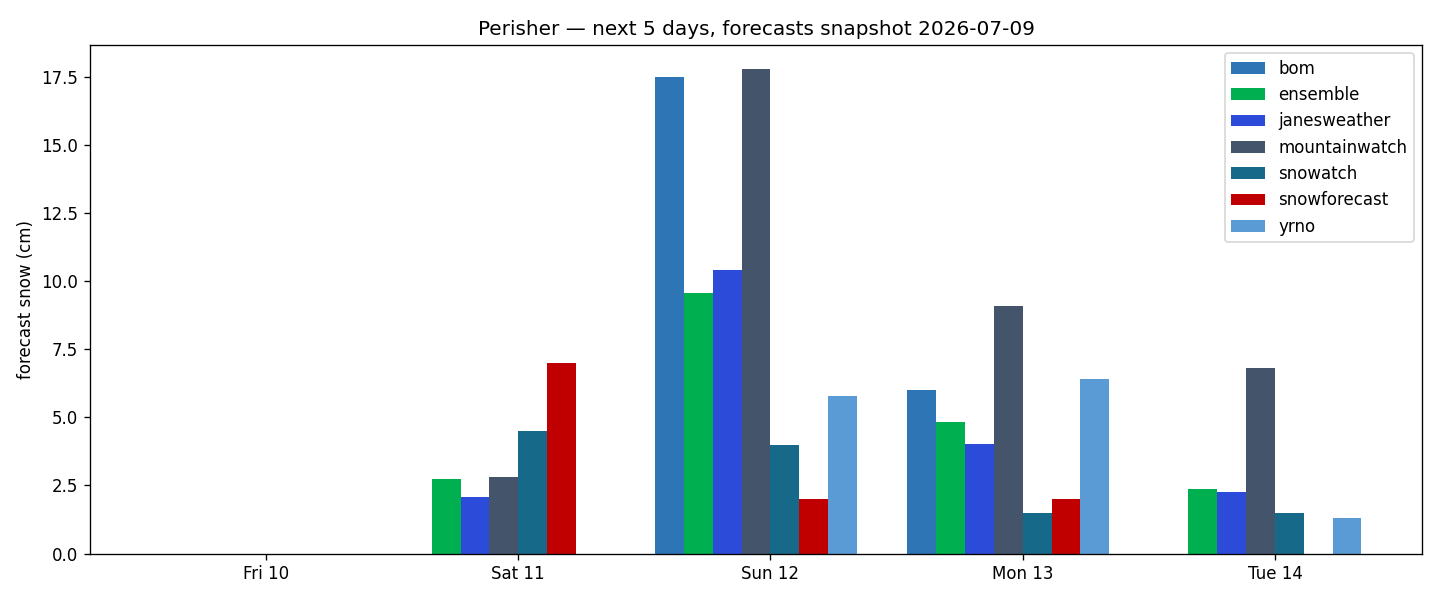
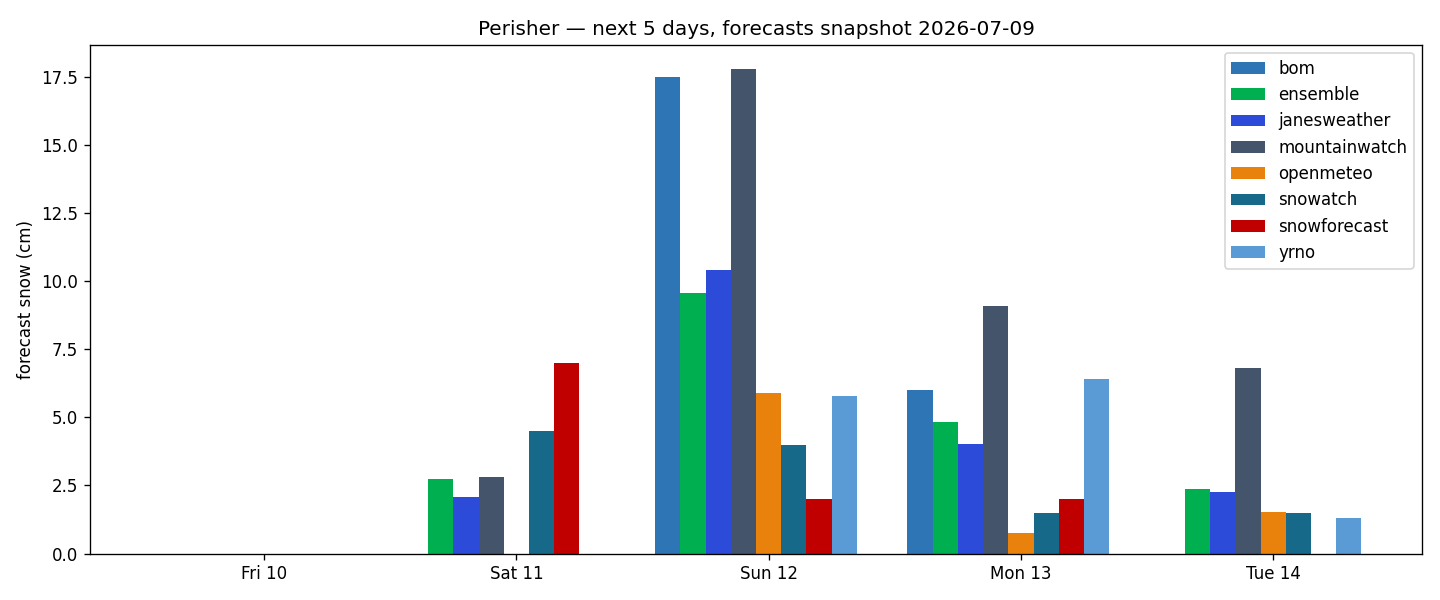
Switch ground truth to Perisher's own official 24h-to-7am report
Perisher's snow-report page is server-rendered with '24 Hrs' / '7 Days' /
'Natural Depth' figures and an 'Updated: <d> 7am' stamp — accurate and
unlagged (confirmed by James). collectors/actuals_perisher.py parses it;
run_morning uses it as primary ground truth, OnTheSnow demoted to fallback.

OnTheSnow's recent[] was demonstrably unreliable: it reported 57cm over the
week vs Perisher's official 37cm/7-day total, mis-attributing storm totals to
single days. That, not any reporting lag, explains the earlier Open-Meteo 0%.
Purged the OnTheSnow-sourced actuals; scoring stays exact-day.

Dashboard now shows official natural-depth and 7-day-new-snow badges (from
data/resort_status.json) instead of a summed season total.

Caveat: Perisher publishes no per-day history, so daily actuals can't be
backfilled before tracking began — the live record starts here.

diff --git a/site/index.html b/site/index.html
@@ -177,11 +177,12 @@ button:focus-visible, input:focus-visible, .swatch:focus-visible {
   <code>data/manual.json</code> and the morning run merges it (feed data always
   wins on conflicts).</footer>
 </div>
-<footer>Ground truth: Perisher resort report via OnTheSnow per-date history.
-Snapshots nightly ~6pm AEST; scoring against 24h snowfall to 7am.</footer>
+<footer>Ground truth: Perisher's official 24h-to-7am snow report (accurate,
+unlagged). Forecasts snapshotted nightly ~6pm AEST; scored the next morning
+against that day's reported snowfall.</footer>
 </main>
 <script>
-const DATA = {"snapshot": "2026-07-09", "generated": "2026-07-09", "sources": [{"id": "yrno", "name": "YR.no", "color": "#5B9BD5"}, {"id": "bom", "name": "BOM", "color": "#2E75B6"}, {"id": "snowforecast", "name": "Snow-Forecast", "color": "#C00000"}, {"id": "mountainwatch", "name": "Mountainwatch", "color": "#44546A"}, {"id": "janesweather", "name": "Jane's Weather", "color": "#2B4BD8"}, {"id": "snowatch", "name": "Snowatch", "color": "#17698A"}, {"id": "openmeteo", "name": "Open-Meteo", "color": "#E8820C"}, {"id": "ensemble", "name": "Ensemble", "color": "#2FA05A"}], "forecasts": {"bom": {"2026-07-17": 0.0, "2026-07-09": 0.0, "2026-07-10": 0.0, "2026-07-11": 0.0, "2026-07-12": 17.5, "2026-07-13": 6.0, "2026-07-14": 0.0, "2026-07-15": 0.0, "2026-07-16": 0.0}, "yrno": {"2026-07-09": 0.0, "2026-07-10": 0.0, "2026-07-11": 0.0, "2026-07-12": 5.8, "2026-07-13": 6.4, "2026-07-14": 1.3, "2026-07-15": 0.1, "2026-07-16": 0.0, "2026-07-17": 0.0, "2026-07-18": 0.0}, "snowforecast": {"2026-07-08": 0.0, "2026-07-09": 0.0, "2026-07-10": 0.0, "2026-07-11": 7.0, "2026-07-12": 2.0, "2026-07-13": 2.0}, "mountainwatch": {"2026-07-08": 0.0, "2026-07-09": 0.0, "2026-07-10": 0.0, "2026-07-11": 2.8, "2026-07-12": 17.8, "2026-07-13": 9.1, "2026-07-14": 6.8}, "janesweather": {"2026-07-09": 0.0, "2026-07-10": 0.0, "2026-07-11": 2.09, "2026-07-12": 10.41, "2026-07-13": 4.01, "2026-07-14": 2.26, "2026-07-15": 2.27, "2026-07-16": 0.34, "2026-07-17": 0.14, "2026-07-18": 0.0}, "snowatch": {"2026-07-08": 0.0, "2026-07-09": 0.0, "2026-07-10": 0.0, "2026-07-11": 4.5, "2026-07-12": 4.0, "2026-07-13": 1.5, "2026-07-14": 1.5, "2026-07-15": 1.5, "2026-07-16": 0.0, "2026-07-17": 0.0, "2026-07-18": 0.0, "2026-07-19": 0.0, "2026-07-20": 1.0, "2026-07-21": 8.5, "2026-07-22": 7.5}, "openmeteo": {"2026-07-09": 0.0, "2026-07-10": 0.0, "2026-07-11": 0.0, "2026-07-12": 5.88, "2026-07-13": 0.77, "2026-07-14": 1.54, "2026-07-15": 0.0, "2026-07-16": 0.0, "2026-07-17": 0.0, "2026-07-18": 0.0, "2026-07-19": 0.0}, "ensemble": {"2026-07-08": 0.0, "2026-07-09": 0.0, "2026-07-10": 0.0, "2026-07-11": 2.72, "2026-07-12": 9.57, "2026-07-13": 4.82, "2026-07-14": 2.37, "2026-07-15": 0.96, "2026-07-16": 0.08, "2026-07-17": 0.05, "2026-07-18": 0.0, "2026-07-19": 0.0, "2026-07-20": 1.0, "2026-07-21": 8.5, "2026-07-22": 7.5}}, "actuals": {"2026-06-29": 0.0, "2026-06-30": 0.0, "2026-07-01": 0.0, "2026-07-02": 20.0, "2026-07-03": 0.0, "2026-07-04": 0.0, "2026-07-05": 37.0, "2026-07-06": 0.0}, "accuracy": {}, "scored_days": 0};
+const DATA = {"snapshot": "2026-07-09", "generated": "2026-07-09", "sources": [{"id": "yrno", "name": "YR.no", "color": "#5B9BD5"}, {"id": "bom", "name": "BOM", "color": "#2E75B6"}, {"id": "snowforecast", "name": "Snow-Forecast", "color": "#C00000"}, {"id": "mountainwatch", "name": "Mountainwatch", "color": "#44546A"}, {"id": "janesweather", "name": "Jane's Weather", "color": "#2B4BD8"}, {"id": "snowatch", "name": "Snowatch", "color": "#17698A"}, {"id": "openmeteo", "name": "Open-Meteo", "color": "#E8820C"}, {"id": "ensemble", "name": "Ensemble", "color": "#2FA05A"}], "forecasts": {"bom": {"2026-07-17": 0.0, "2026-07-09": 0.0, "2026-07-10": 0.0, "2026-07-11": 0.0, "2026-07-12": 17.5, "2026-07-13": 6.0, "2026-07-14": 0.0, "2026-07-15": 0.0, "2026-07-16": 0.0}, "yrno": {"2026-07-09": 0.0, "2026-07-10": 0.0, "2026-07-11": 0.0, "2026-07-12": 5.8, "2026-07-13": 6.4, "2026-07-14": 1.3, "2026-07-15": 0.1, "2026-07-16": 0.0, "2026-07-17": 0.0, "2026-07-18": 0.0}, "snowforecast": {"2026-07-08": 0.0, "2026-07-09": 0.0, "2026-07-10": 0.0, "2026-07-11": 7.0, "2026-07-12": 2.0, "2026-07-13": 2.0}, "mountainwatch": {"2026-07-08": 0.0, "2026-07-09": 0.0, "2026-07-10": 0.0, "2026-07-11": 2.8, "2026-07-12": 17.8, "2026-07-13": 9.1, "2026-07-14": 6.8}, "janesweather": {"2026-07-09": 0.0, "2026-07-10": 0.0, "2026-07-11": 2.09, "2026-07-12": 10.41, "2026-07-13": 4.01, "2026-07-14": 2.26, "2026-07-15": 2.27, "2026-07-16": 0.34, "2026-07-17": 0.14, "2026-07-18": 0.0}, "snowatch": {"2026-07-08": 0.0, "2026-07-09": 0.0, "2026-07-10": 0.0, "2026-07-11": 4.5, "2026-07-12": 4.0, "2026-07-13": 1.5, "2026-07-14": 1.5, "2026-07-15": 1.5, "2026-07-16": 0.0, "2026-07-17": 0.0, "2026-07-18": 0.0, "2026-07-19": 0.0, "2026-07-20": 1.0, "2026-07-21": 8.5, "2026-07-22": 7.5}, "openmeteo": {"2026-07-09": 0.0, "2026-07-10": 0.0, "2026-07-11": 0.0, "2026-07-12": 5.88, "2026-07-13": 0.77, "2026-07-14": 1.54, "2026-07-15": 0.0, "2026-07-16": 0.0, "2026-07-17": 0.0, "2026-07-18": 0.0, "2026-07-19": 0.0}, "ensemble": {"2026-07-08": 0.0, "2026-07-09": 0.0, "2026-07-10": 0.0, "2026-07-11": 2.72, "2026-07-12": 9.57, "2026-07-13": 4.82, "2026-07-14": 2.37, "2026-07-15": 0.96, "2026-07-16": 0.08, "2026-07-17": 0.05, "2026-07-18": 0.0, "2026-07-19": 0.0, "2026-07-20": 1.0, "2026-07-21": 8.5, "2026-07-22": 7.5}}, "actuals": {"2026-07-09": 0.0}, "accuracy": {}, "scored_days": 0, "status": {"date": "2026-07-09", "snow_24h": 0.0, "snow_7day": 37.0, "natural_depth": 34.2}};
 const PALETTES = [{"id": "glacier", "label": "Glacier", "bg": "#F2F5F9", "accent": "#3E8FD8"}, {"id": "clay", "label": "Clay", "bg": "#F0EEE6", "accent": "#CC785C"}, {"id": "aurora", "label": "Aurora", "bg": "#F1F6F5", "accent": "#0E9488"}, {"id": "corduroy", "label": "Corduroy", "bg": "#FDF3E7", "accent": "#C2410C"}];
 
 const $ = (s) => document.querySelector(s);
@@ -234,8 +235,7 @@ function renderBadges() {
     if (!event && med >= 1) event = stat;
     if (!peak || stat.med > peak.med) peak = stat;
   }
-  const seasonTotal = Object.entries({ ...state.manual, ...DATA.actuals })
-    .reduce((t, [, v]) => t + v, 0);
+  const st = DATA.status || {};
   let html = "";
   html += event
     ? `<div class="badge event"><small>Next snowfall event</small><b>${fmtDay(event.d)}</b>
@@ -245,8 +245,12 @@ function renderBadges() {
   if (peak && (!event || peak.d !== event.d) && peak.med >= 1)
     html += `<div class="badge"><small>Biggest day ahead</small><b>${fmtDay(peak.d)}</b>
       <div class="range">median ${peak.med.toFixed(1)}cm · range ${peak.lo.toFixed(0)}–${peak.hi.toFixed(0)}cm</div></div>`;
-  html += `<div class="badge"><small>Season snowfall</small><b>${seasonTotal.toFixed(0)}cm</b>
-    <div class="range">${Object.keys(state.manual).length ? "incl. manual entries" : "resort-reported"}</div></div>`;
+  if (st.natural_depth != null)
+    html += `<div class="badge"><small>Natural snow depth</small><b>${st.natural_depth.toFixed(0)}cm</b>
+      <div class="range">Perisher official · ${st.date || ""}</div></div>`;
+  if (st.snow_7day != null)
+    html += `<div class="badge"><small>New snow, 7 days</small><b>${st.snow_7day.toFixed(0)}cm</b>
+      <div class="range">Perisher official 24h-to-7am</div></div>`;
   html += `<div class="badge"><small>Days scored</small><b>${DATA.scored_days}</b>
     <div class="range">24h-lead comparisons</div></div>`;
   html += `<div class="badge"><small>Forecasters</small><b>${sources.length - 1}</b>

diff --git a/collectors/actuals_perisher.py b/collectors/actuals_perisher.py
@@ -1,0 +1,62 @@
+"""Authoritative ground truth: Perisher's own snow report.
+
+Perisher publishes a resort-wide "24 Hrs" new-snow figure (to ~7am), plus
+"7 Days" and "Natural Depth", server-rendered in the page HTML with an
+"Updated: <day> <time>" stamp. This is Star_Hawk's exact yardstick and is
+accurately dated with no reporting lag — unlike OnTheSnow's recent[], whose
+per-day attribution was found to disagree with Perisher's own 7-day total
+(57cm vs 37cm for the same week), so we treat OnTheSnow as fallback only.
+
+Perisher exposes only the current snapshot (no per-day history), so this
+gives clean actuals going forward but cannot backfill past days.
+"""
+from __future__ import annotations
+
+import datetime as dt
+import re
+
+from .common import TZ, get, today
+
+SOURCE = "perisher"
+URL = "https://www.perisher.com.au/reports-cams/reports/snow-report"
+
+_MONTHS = {m: i for i, m in enumerate(
+    ["Jan", "Feb", "Mar", "Apr", "May", "Jun",
+     "Jul", "Aug", "Sep", "Oct", "Nov", "Dec"], 1)}
+
+
+def _item(html: str, title: str) -> float | None:
+    """The cm value following a snowfall-item title ('24 Hrs', '7 Days'…).
+
+    Titles may carry a trailing marker (e.g. 'Natural Depth*'), so we anchor
+    on the title text rather than an exact tag boundary.
+    """
+    i = html.find(f">{title}")
+    if i < 0:
+        return None
+    m = re.search(r"([\d.]+)\s*(?:</[^>]*>\s*)*<[^>]*>\s*cm", html[i : i + 300])
+    return float(m.group(1)) if m else None
+
+
+def _updated_date(html: str) -> dt.date:
+    m = re.search(r"Updated:\s*</?[^>]*>?\s*(\d{1,2})\s+([A-Za-z]{3})", html)
+    if not m:
+        return today()
+    day, mon = int(m.group(1)), _MONTHS.get(m.group(2)[:3].title())
+    if not mon:
+        return today()
+    year = dt.datetime.now(TZ).year
+    return dt.date(year, mon, day)
+
+
+def collect() -> dict:
+    html = get(URL).text
+    snow_24h = _item(html, "24 Hrs")
+    if snow_24h is None:
+        raise ValueError("could not find 24 Hrs snowfall figure")
+    return {
+        "date": _updated_date(html),
+        "snow_24h": snow_24h,
+        "snow_7day": _item(html, "7 Days"),
+        "natural_depth": _item(html, "Natural Depth"),
+    }

diff --git a/run_morning.py b/run_morning.py
@@ -1,31 +1,58 @@
-"""Morning run (~7:45am AEST): record reported 24h snowfall, score, chart."""
+"""Morning run (~7:45am AEST): record reported 24h snowfall, score, chart.
+
+Ground truth is Perisher's own 24h-to-7am figure (accurate, unlagged). If
+that scrape fails we fall back to OnTheSnow's newest day, which is a rougher
+proxy — its per-day attribution disagreed with Perisher's official totals.
+"""
 from __future__ import annotations
 
+import json
 import sys
 import traceback
 
 import store
 from charts import accuracy_chart, history_chart, next_days_chart
-from collectors import actuals_onthesnow
+from collectors import actuals_onthesnow, actuals_perisher
 from collectors.common import today
 from score import accuracy
+from store import DB_PATH
+
+
+def _record_actual(con) -> bool:
+    try:
+        rep = actuals_perisher.collect()
+        store.save_actual(con, rep["date"], rep["snow_24h"], actuals_perisher.SOURCE)
+        (DB_PATH.parent / "resort_status.json").write_text(json.dumps({
+            "date": rep["date"].isoformat(),
+            "snow_24h": rep["snow_24h"],
+            "snow_7day": rep["snow_7day"],
+            "natural_depth": rep["natural_depth"],
+        }, indent=1))
+        print(f"[ok] Perisher official: {rep['date']} 24h={rep['snow_24h']}cm, "
+              f"7d={rep['snow_7day']}cm, depth={rep['natural_depth']}cm")
+        return True
+    except Exception:
+        print("[warn] Perisher scrape failed; trying OnTheSnow fallback",
+              file=sys.stderr)
+        traceback.print_exc()
+    try:
+        history = actuals_onthesnow.collect()
+        newest = max(history)
+        store.save_actual(con, newest, history[newest], actuals_onthesnow.SOURCE)
+        print(f"[ok] fallback actual (OnTheSnow): {newest} = {history[newest]}cm")
+        return True
+    except Exception:
+        print("[FAIL] no actual recorded", file=sys.stderr)
+        traceback.print_exc()
+        return False
 
 
 def main() -> int:
     con = store.connect()
     date = today()
-    try:
-        history = actuals_onthesnow.collect()
-        for d, cm in sorted(history.items()):
-            store.save_actual(con, d, cm, actuals_onthesnow.SOURCE)
-        newest = max(history)
-        print(f"[ok] actuals: {len(history)} days upserted, "
-              f"newest {newest} = {history[newest]}cm")
-        store.merge_manual(con)
-    except Exception:
-        print("[FAIL] actuals", file=sys.stderr)
-        traceback.print_exc()
+    if not _record_actual(con):
         return 1
+    store.merge_manual(con)
 
     acc = accuracy(con)
     for s, v in sorted(acc.items(), key=lambda kv: -kv[1]):

diff --git a/dashboard.py b/dashboard.py
@@ -231,8 +231,7 @@ function renderBadges() {
     if (!event && med >= 1) event = stat;
     if (!peak || stat.med > peak.med) peak = stat;
   }
-  const seasonTotal = Object.entries({ ...state.manual, ...DATA.actuals })
-    .reduce((t, [, v]) => t + v, 0);
+  const st = DATA.status || {};
   let html = "";
   html += event
     ? `<div class="badge event"><small>Next snowfall event</small><b>${fmtDay(event.d)}</b>
@@ -242,8 +241,12 @@ function renderBadges() {
   if (peak && (!event || peak.d !== event.d) && peak.med >= 1)
     html += `<div class="badge"><small>Biggest day ahead</small><b>${fmtDay(peak.d)}</b>
       <div class="range">median ${peak.med.toFixed(1)}cm · range ${peak.lo.toFixed(0)}–${peak.hi.toFixed(0)}cm</div></div>`;
-  html += `<div class="badge"><small>Season snowfall</small><b>${seasonTotal.toFixed(0)}cm</b>
-    <div class="range">${Object.keys(state.manual).length ? "incl. manual entries" : "resort-reported"}</div></div>`;
+  if (st.natural_depth != null)
+    html += `<div class="badge"><small>Natural snow depth</small><b>${st.natural_depth.toFixed(0)}cm</b>
+      <div class="range">Perisher official · ${st.date || ""}</div></div>`;
+  if (st.snow_7day != null)
+    html += `<div class="badge"><small>New snow, 7 days</small><b>${st.snow_7day.toFixed(0)}cm</b>
+      <div class="range">Perisher official 24h-to-7am</div></div>`;
   html += `<div class="badge"><small>Days scored</small><b>${DATA.scored_days}</b>
     <div class="range">24h-lead comparisons</div></div>`;
   html += `<div class="badge"><small>Forecasters</small><b>${sources.length - 1}</b>
@@ -506,6 +509,9 @@ def render(out: Path | None = None) -> Path:
     acc = accuracy(con)
     scored = len({d for _, d, _, _ in daily_errors(con)})
 
+    status_path = store.DB_PATH.parent / "resort_status.json"
+    status = json.loads(status_path.read_text()) if status_path.exists() else {}
+
     data = {
         "snapshot": snapshot,
         "generated": today,
@@ -517,6 +523,7 @@ def render(out: Path | None = None) -> Path:
         "actuals": actuals,
         "accuracy": acc,
         "scored_days": scored,
+        "status": status,
     }
     palettes_js = [
         {"id": pid, "label": p["label"], "bg": p["light"]["bg"],
@@ -612,8 +619,9 @@ def render(out: Path | None = None) -> Path:
   <code>data/manual.json</code> and the morning run merges it (feed data always
   wins on conflicts).</footer>
 </div>
-<footer>Ground truth: Perisher resort report via OnTheSnow per-date history.
-Snapshots nightly ~6pm AEST; scoring against 24h snowfall to 7am.</footer>
+<footer>Ground truth: Perisher's official 24h-to-7am snow report (accurate,
+unlagged). Forecasts snapshotted nightly ~6pm AEST; scored the next morning
+against that day's reported snowfall.</footer>
 </main>
 <script>
 const DATA = {json.dumps(data)};